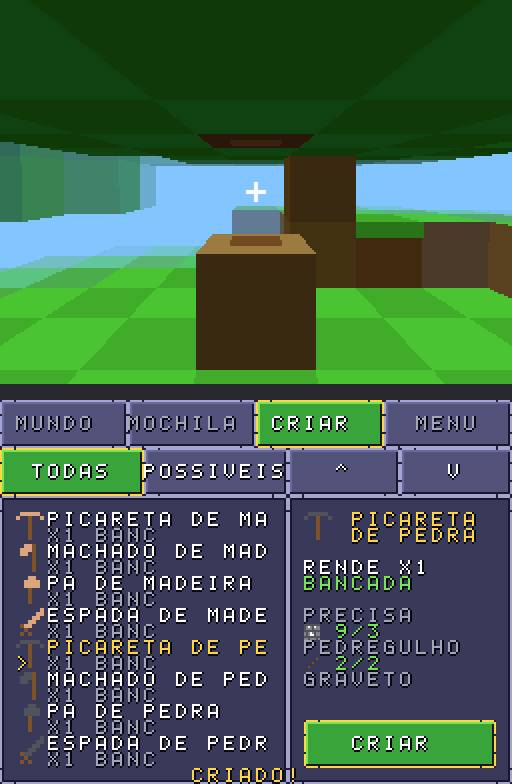
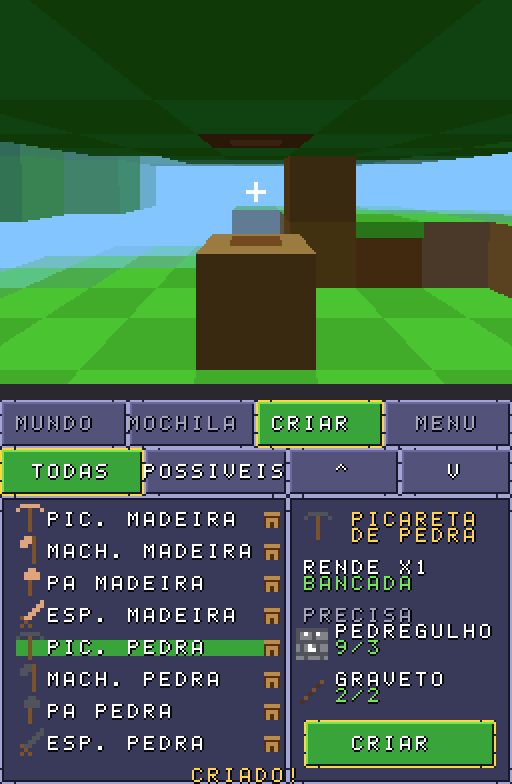
BlocoDS: lista da aba CRIAR sem texto encavalado
Cada receita agora ocupa uma linha de texto com uma linha livre abaixo:
icone centrado, nome curto ("PIC. PEDRA", "BLOCO OURO"), quantidade a
direita e a estacao (bancada ou fornalha) como icone 8x8. A receita
selecionada ganha uma faixa verde. No painel de detalhes, cada
ingrediente mostra icone, nome e tem/precisa com espaco entre eles.

Claude-Session: https://claude.ai/code/session_01PQTATUdXPsbfAygDS73Enn

Changed region(s): [[0.0312, 0.6429, 0.9688, 0.9796]]

diff --git a/blocods/source/main.c b/blocods/source/main.c
@@ -586,6 +586,25 @@ static void nameFit(int id, char *buf, int max) {
     itemName(id, buf);
     if ((int)strlen(buf) > max) buf[max] = 0;
 }
+// nome curto para a lista de receitas: "PIC. FERRO", "BLOCO OURO", "TABUAS";
+// se ainda nao couber, corta com ponto ("CARVAO VEGET.")
+static void listName(int id, char *buf, int max) {
+    if (isTool(id)) {
+        static const char *t[] = {"PIC.", "MACH.", "PA", "ESP."};
+        static const char *m[] = {"MADEIRA", "PEDRA", "FERRO", "OURO", "DIAMANTE"};
+        sprintf(buf, "%s %s", t[toolType(id)], m[toolMat(id)]);
+    } else {
+        static const char *cut[] = {" de Carvalho", " de Trabalho"};
+        itemName(id, buf);
+        for (unsigned i = 0; i < sizeof cut / sizeof *cut; i++) {
+            char *p = strstr(buf, cut[i]);
+            if (p) *p = 0;
+        }
+        char *p = strstr(buf, " de ");
+        if (p && (!strncmp(buf, "Bloco", 5) || !strncmp(buf, "Barra", 5))) memmove(p + 1, p + 4, strlen(p + 4) + 1);
+    }
+    if ((int)strlen(buf) > max) { buf[max - 1] = '.'; buf[max] = 0; }
+}
 
 // ---- sprites (OAM sombra) ----
 static u16 oamShadow[128 * 4];
@@ -774,6 +793,8 @@ static void drawCraftTab(void) {
     uiButton(18, 3, 7, 3, false);              uiTextC(18, 7, 4, "^", P_UI);
     uiButton(25, 3, 7, 3, false);              uiTextC(25, 7, 4, "V", P_UI);
 
+    // lista: uma linha de texto por receita e uma linha livre entre elas;
+    // icone 16x16 centrado na linha, quantidade ou estacao (icone 8x8) a direita
     uiPanel(0, 6, 18, 18);
     char name[40];
     for (int i = 0; i < 8 && craftScroll + i < craftCount; i++) {
@@ -782,12 +803,11 @@ static void drawCraftTab(void) {
         int y = 7 + i * 2;
         bool can = canCraft(ri, hasTable, hasFurnace);
         bool sel = craftScroll + i == craftCur;
-        nameFit(r->out, name, 14);
-        uiText(3, y, name, sel ? P_GOLD : (can ? P_UI : P_GREY));
-        char b[24];
-        sprintf(b, "X%d %s", r->outN, r->station == ST_TABLE ? "BANC" : (r->station == ST_FURNACE ? "FORN" : ""));
-        uiText(3, y + 1, b, P_GREY);
-        if (sel) uiText(1, y + 1, ">", P_GOLD);
+        if (sel)
+            for (int x = 1; x < 17; x++) UI_PNL[y * 32 + x] = (u16)((T_BUTTON + 4) | (P_SEL << 12));
+        listName(r->out, name, r->outN > 1 ? 11 : 13);
+        uiText(3, y, name, can || sel ? P_UI : P_GREY);
+        if (r->outN > 1) { char b[8]; sprintf(b, "X%d", r->outN); uiText(15, y, b, sel ? P_GOLD : P_GREY); }
     }
     if (!craftCount) uiText(2, 8, "NADA POR ENQUANTO", P_GREY);
 
@@ -809,12 +829,12 @@ static void drawCraftTab(void) {
         else if (r->station == ST_TABLE) uiText(19, 11, "BANCADA", hasTable ? P_GREEN : P_RED);
         else uiText(19, 11, "FORNALHA", hasFurnace ? P_GREEN : P_RED);
         uiText(19, 13, "PRECISA", P_GREY);
-        for (int i = 0; i < r->n; i++) {
+        for (int i = 0; i < r->n; i++) {      // ingrediente: nome e "tem/precisa", linha livre entre eles
             int have = countItem(r->inId[i]);
+            listName(r->inId[i], name, 10);
+            uiText(21, 14 + i * 3, name, P_UI);
             sprintf(b, "%d/%d", have > 99 ? 99 : have, r->inN[i]);
-            uiText(21, 14 + i * 2, b, have >= r->inN[i] ? P_GREEN : P_RED);
-            nameFit(r->inId[i], name, 12);
-            uiText(19, 15 + i * 2, name, P_GREY);
+            uiText(21, 15 + i * 3, b, have >= r->inN[i] ? P_GREEN : P_RED);
         }
         if (r->station == ST_FURNACE) {
             sprintf(b, "COMB %d.%d", fuelHalf / 2, (fuelHalf & 1) * 5);
@@ -869,12 +889,16 @@ static void drawUI(void) {
     } else if (tab == TAB_BAG) {
         for (int s = 0; s < INV_SIZE; s++) sprIcon16((2 + (s % 9) * 3) * 8, (4 + (s / 9) * 3) * 8, inv[s].id);
     } else if (tab == TAB_CRAFT) {
-        for (int i = 0; i < 8 && craftScroll + i < craftCount; i++)
-            sprIcon16(8, (7 + i * 2) * 8, recipes[craftList[craftScroll + i]].out);
+        for (int i = 0; i < 8 && craftScroll + i < craftCount; i++) {
+            const Recipe *r = &recipes[craftList[craftScroll + i]];
+            int y = (7 + i * 2) * 8;
+            sprIcon16(8, y - 4, r->out);
+            if (r->station != ST_NONE) sprIcon8(16 * 8 + 4, y, r->station == ST_TABLE ? B_CTABLE : B_FURNACE);
+        }
         if (craftCount) {
             const Recipe *r = &recipes[craftList[craftCur]];
             sprIcon16(19 * 8, 7 * 8, r->out);
-            for (int i = 0; i < r->n; i++) sprIcon8(19 * 8, (14 + i * 2) * 8, r->inId[i]);
+            for (int i = 0; i < r->n; i++) sprIcon16(19 * 8 - 4, (14 + i * 3) * 8 + 2, r->inId[i]);
         }
     }
 }
